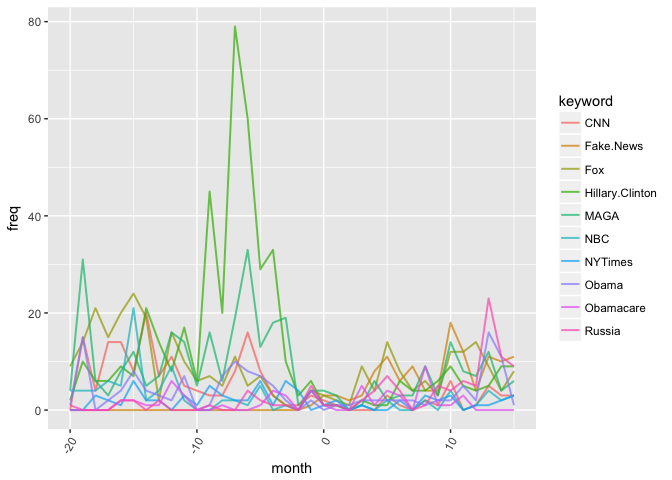
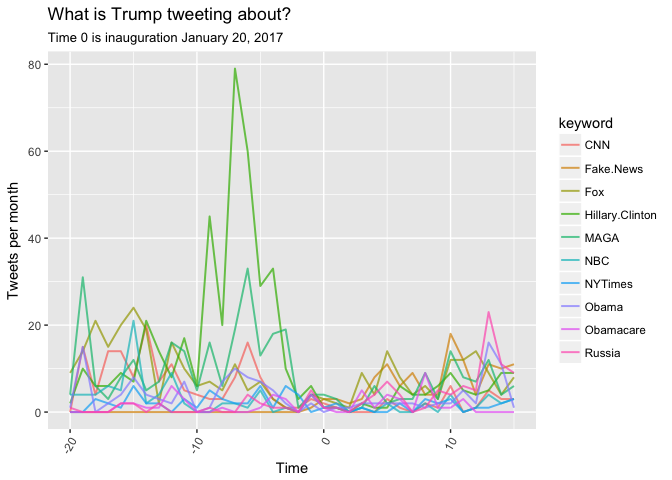
Commit via RMarkdown.

diff --git a/README.md b/README.md
@@ -104,11 +104,15 @@ For starters we are going to look at how frequently Trump mentions these keyword
 
 ``` r
 # Line graph
-tt.names %>% # Ew...
+tt.names %>% 
   ggplot() + 
   geom_line(aes(x = month, y = freq, 
                 color = keyword), size = .7, alpha = .7) +
-  theme(axis.text.x = element_text(angle=60, hjust=1))
+  theme(axis.text.x = element_text(angle=60, hjust=1)) +
+  xlab("Time") +
+  ylab("Tweets per month") +
+  ggtitle("What is Trump tweeting about?", 
+          subtitle = "Time 0 is inauguration January 20, 2017")
 ```
 
 ![](README_files/figure-markdown_github-ascii_identifiers/unnamed-chunk-2-1.png)
@@ -119,7 +123,10 @@ This graph is not very informative...
 # Heat map 
 ggplot(tt.names) + 
   geom_tile(aes(x = month, y = keyword, fill = freq)) +
-  theme(axis.text.x = element_text(angle=60, hjust=1))
+  theme(axis.text.x = element_text(angle=60, hjust=1)) +
+  ggtitle("What is Trump tweeting about?", 
+          subtitle = "Time 0 is inauguration January 20, 2017") +
+  xlab("Time") + labs(fill = "t/m")
 ```
 
 ![](README_files/figure-markdown_github-ascii_identifiers/unnamed-chunk-3-1.png)
@@ -134,7 +141,9 @@ tt.names %>%
   geom_line(aes(x = month, y = freq, 
                 color = keyword, 
                 group = keyword), size = .7) +
-  theme(axis.text.x = element_text(angle=60, hjust=1))
+  theme(axis.text.x = element_text(angle=60, hjust=1)) +
+  ggtitle('Tweets about Hillary Clinton and "Make America Great Again"') +
+  xlab("Time") + ylab("Frequency") + labs(color = "")
 ```
 
 ![](README_files/figure-markdown_github-ascii_identifiers/unnamed-chunk-4-1.png)
@@ -157,6 +166,7 @@ and choose a and b to minimize the sum of squared differences.
 
 ``` r
 plot(Hillary.Clinton ~ MAGA, data = tt.names.wide)
+title("Correlation between tweets about H. Clinton and 'MAGA'")
 lm.Hillary <- lm(Hillary.Clinton ~ MAGA, data = tt.names.wide)
 abline(lm.Hillary)
 ```
@@ -201,7 +211,10 @@ plot(lm.Hillary$residuals); abline(h = 0)
 tt.names %>% filter(keyword != "Hillary.Clinton", keyword != "MAGA") %>%
   ggplot() + 
   geom_tile(aes(x = month, y = keyword, fill = freq)) +
-  theme(axis.text.x = element_text(angle=60, hjust=1))
+  theme(axis.text.x = element_text(angle=60, hjust=1)) +
+    ggtitle("What is Trump tweeting about?", 
+          subtitle = "Time 0 is inauguration January 20, 2017") +
+  xlab("Time") + labs(fill = "t/m")
 ```
 
 ![](README_files/figure-markdown_github-ascii_identifiers/unnamed-chunk-6-1.png)
@@ -232,7 +245,10 @@ tt.names %>%
   geom_line(aes(x = month, y = freq, 
                 color = keyword, 
                 group = keyword), size = .7) +
-  theme(axis.text.x = element_text(angle=60, hjust=1))
+  theme(axis.text.x = element_text(angle=60, hjust=1)) +
+  ggtitle('Tweets about fake news and Russia') +
+  xlab("Time") + ylab("Frequency") +
+  labs(color = "")
 ```
 
 ![](README_files/figure-markdown_github-ascii_identifiers/unnamed-chunk-7-1.png)
@@ -321,7 +337,8 @@ for (i in 1:1000) {
 
 ``` r
 qq <- quantile(tts.cor, c(0.025, .957))
-hist(tts.cor, xlim = c(0,2))
+hist(tts.cor, main = NA, xlim = c(0,2))
+title("Simulated slopes")
 abline(v = qq[1], lty = 2)
 abline(v = qq[2], lty = 2)
 ```
